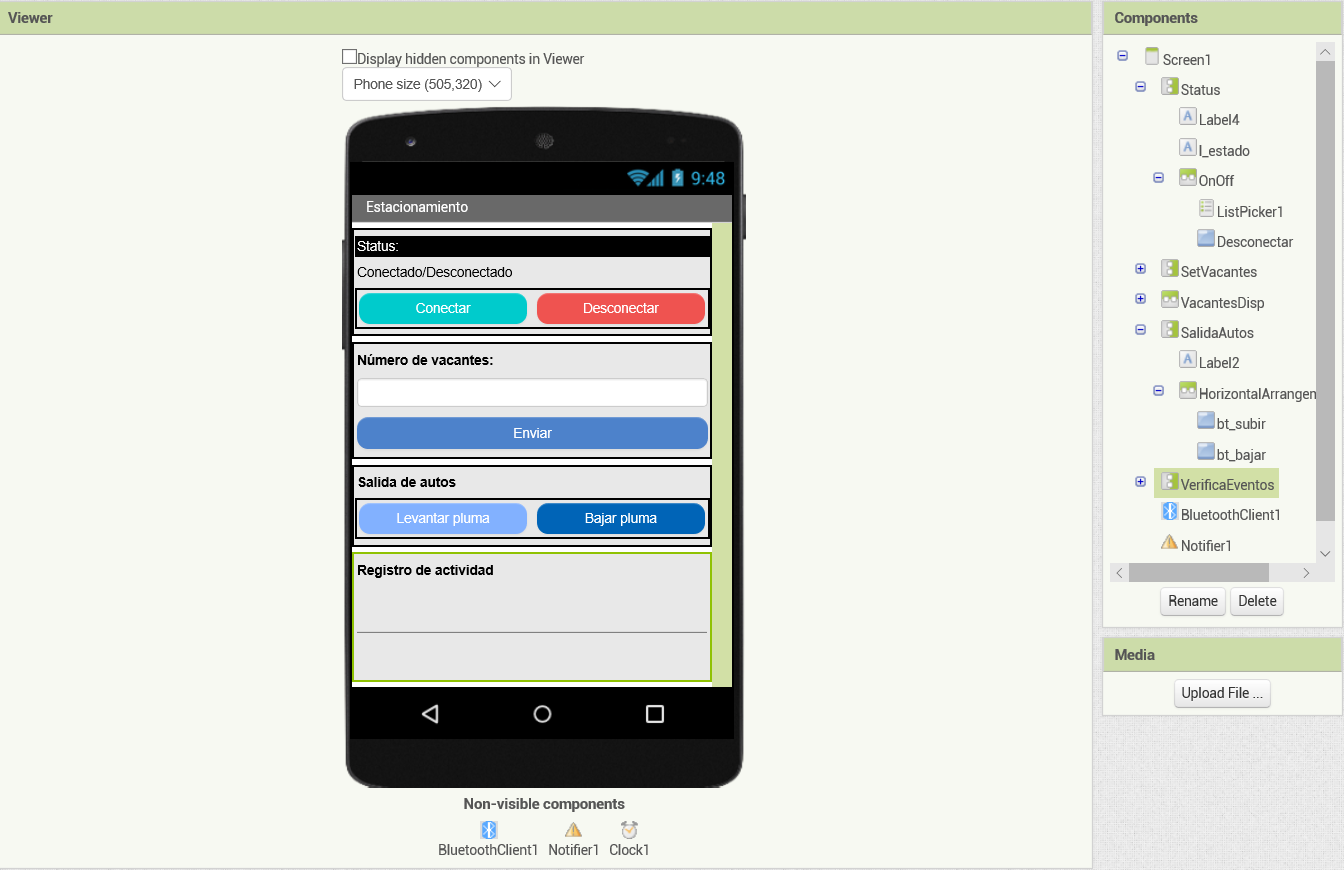
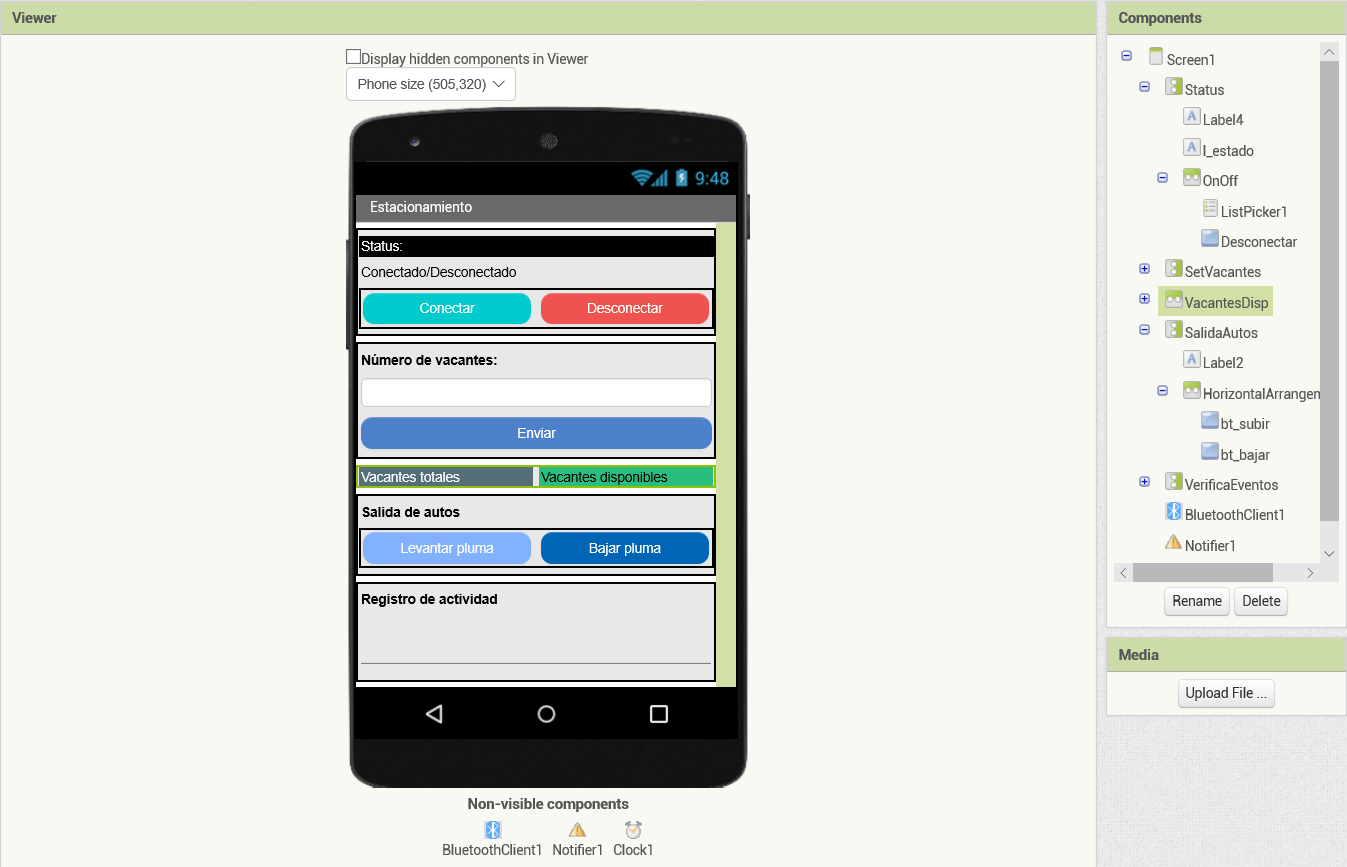
Sección aplicación

diff --git a/Teoría/Proyecto/README.md b/Teoría/Proyecto/README.md
@@ -142,11 +142,9 @@ Se hizo uso de MIT App Inventor para la creación de la aplicación con la que s
 
 La interfaz con todos los componentes disponibles se muestra a continuación (aunque no todos serán visibles desde el comienzo):
 
-<div align = "center">
-  <img src="images/Interfaz.PNG" width="500">
-</div>
+![Interfaz App](images/Interfaz.PNG)
 
-El área de programación 
+El área de programación
 
 
 ### Análisis de resultados
